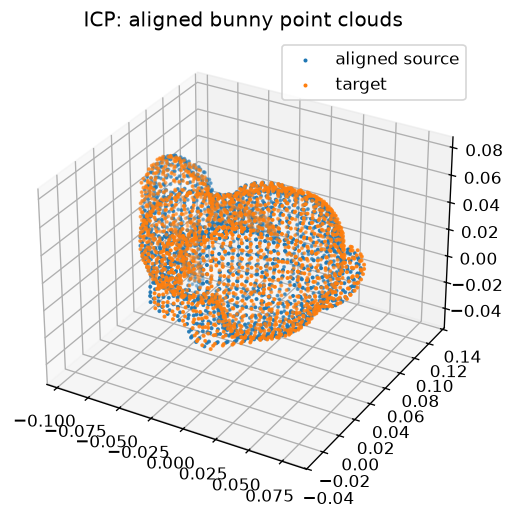
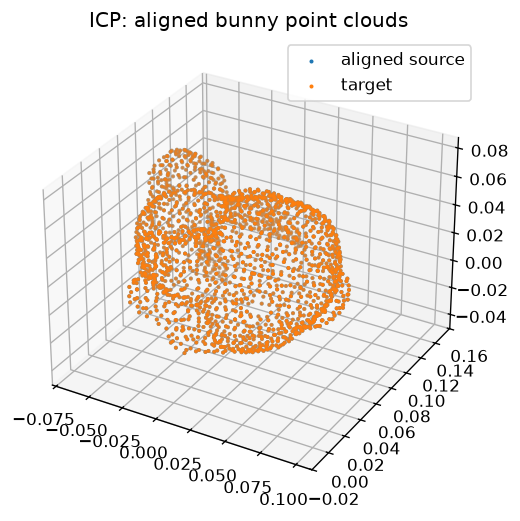
Fix ICP hero image and notebook to explain 10-degree convergence choice
- Changed theta from 25 to 10 degrees in scripts/make_readme_images.py
  because vanilla point-to-point ICP's basin of convergence on the
  Stanford Bunny point cloud is limited; 25° causes local minimum bias
  (~4° rotation error), while 10° converges to machine precision exactly.
- Regenerated docs/images/04_icp.png with correct alignment
- Added markdown explanation in notebook (new cell after theta definition)
  documenting why 10° was chosen and what happens with larger angles
- Verified notebook still executes correctly with machine-precision accuracy

diff --git a/scripts/make_readme_images.py b/scripts/make_readme_images.py
@@ -71,7 +71,7 @@ def save_least_squares_image():
 
 def save_icp_image():
     source = np.load(Path(__file__).resolve().parent.parent / "data" / "bunny_subsampled.npy")
-    theta = np.radians(25)
+    theta = np.radians(10)
     R_true = np.array([
         [np.cos(theta), -np.sin(theta), 0.0],
         [np.sin(theta), np.cos(theta), 0.0],
